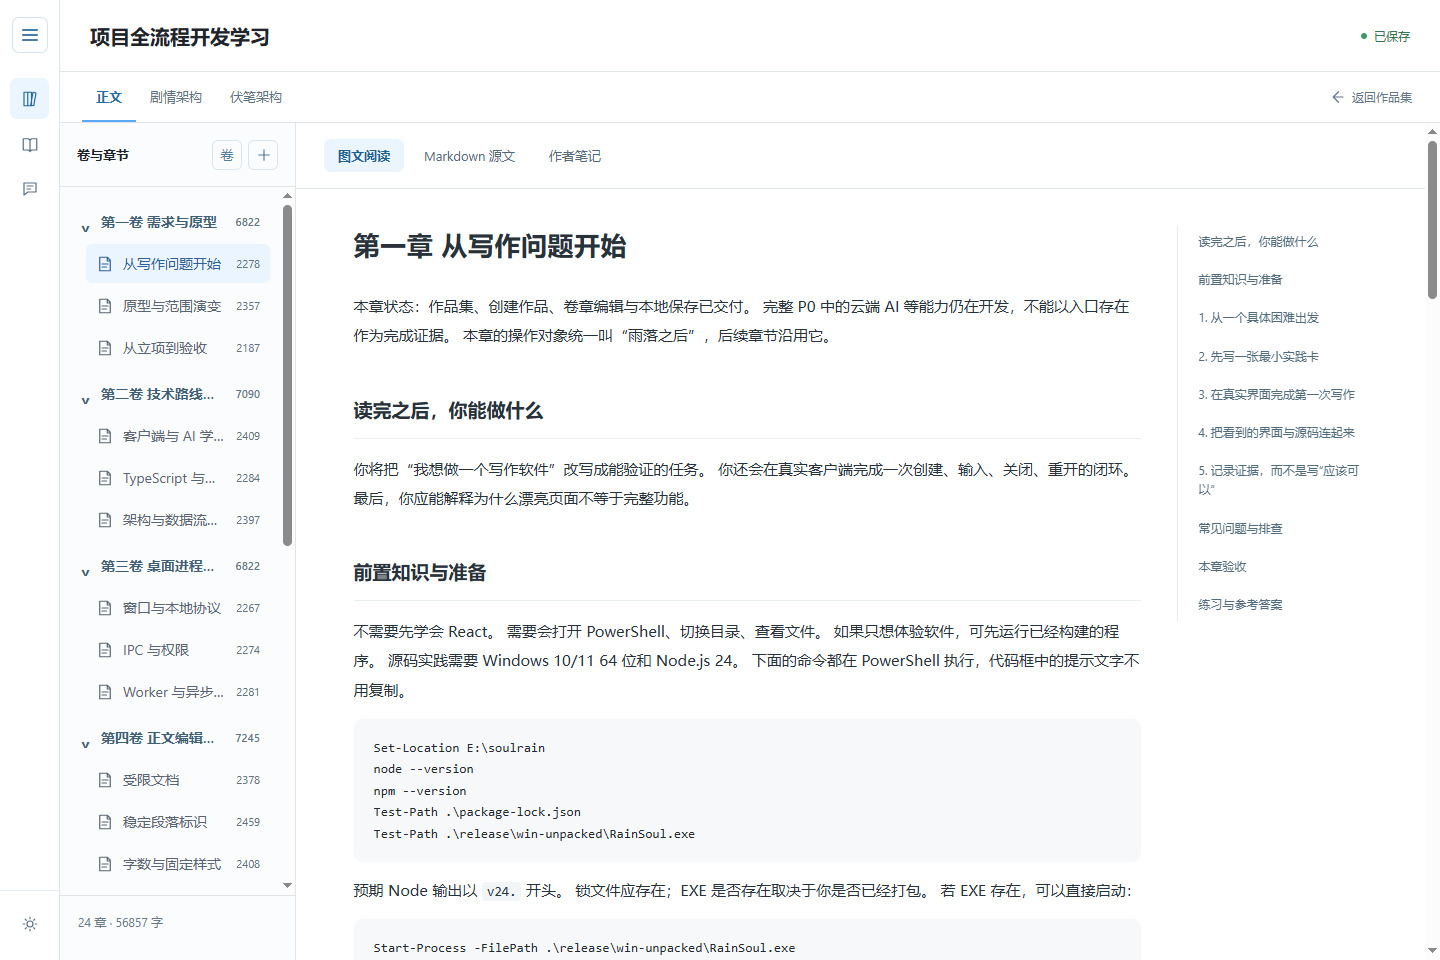
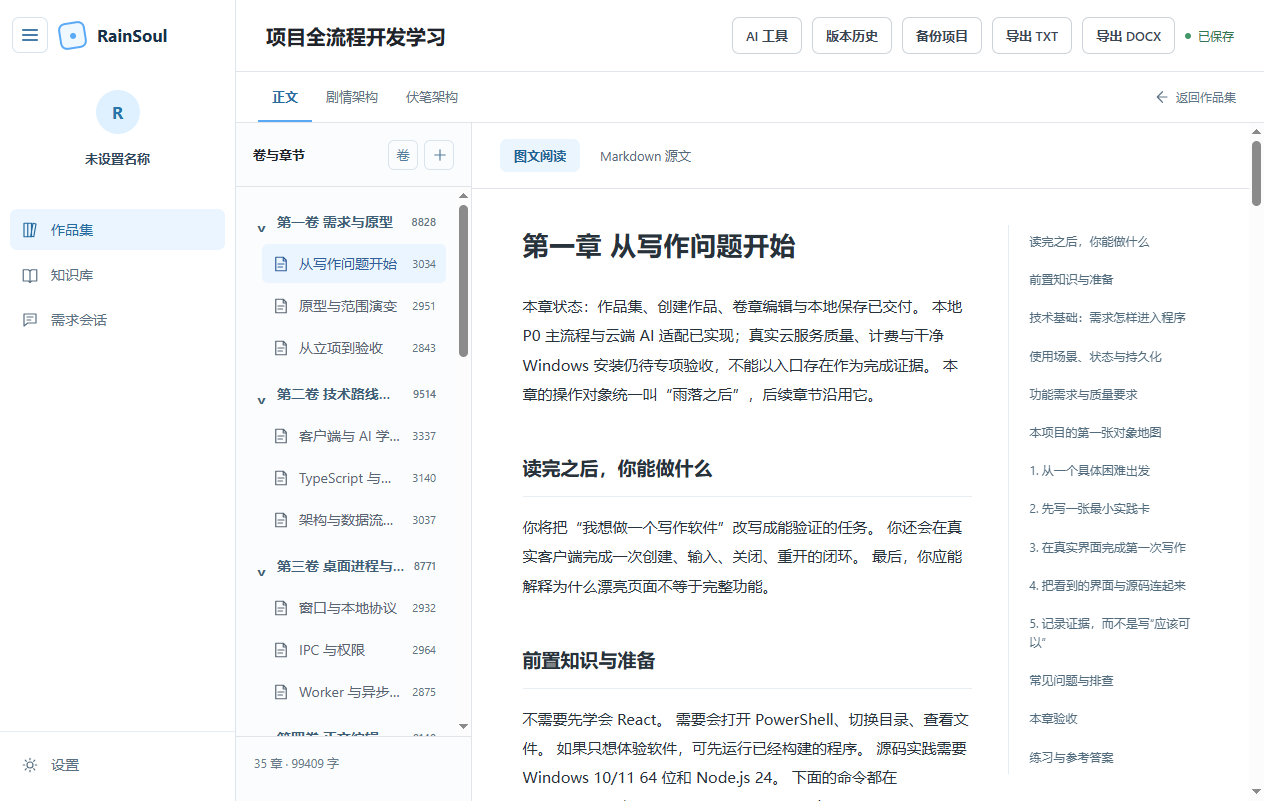
fix(learning-ui): 移除旧作者正文入口并保留已存数据
教材仅提供图文阅读与只读Markdown源文，普通作品仍使用原编辑器；旧作者数据不删除。单元和真实Electron重启保留回归通过，两张教材截图同步新界面。

diff --git a/tests/unit/learning-chapter.test.tsx b/tests/unit/learning-chapter.test.tsx
@@ -6,30 +6,24 @@ import type { Textbook } from '../../src/shared/textbook';
 
 afterEach(cleanup);
 const textbook: Textbook = { workId: 'course', chapters: [{ id: 'chapter', key: 'c1', title: '实验', markdown: '# 实验\n\n## 跟做\n\n```ts\nconst result = 1;\n```', images: {} }] };
-describe('教材模式与笔记隔离', () => {
-  it('默认阅读，源文只读，笔记必须通过保存门禁后显示，切回阅读不改笔记', async () => {
+describe('教材只显示图文与只读源文', () => {
+  it('隐藏旧作者正文入口，切换源文通过保存门禁且不改作者数据', async () => {
     const changeMode = vi.fn(async (action: () => void) => { action(); return true; });
     render(<LearningChapter textbook={textbook} workId="course" chapterId="chapter" busy={false} changeMode={changeMode}><div>原作者笔记</div></LearningChapter>);
     expect(screen.getByRole('heading', { name: '实验' })).toBeTruthy();
+    expect(screen.queryByRole('button', { name: '作者笔记' })).toBeNull();
     expect(screen.queryByText('原作者笔记')).toBeNull();
     fireEvent.click(screen.getByRole('button', { name: 'Markdown 源文' }));
     await waitFor(() => expect(screen.getByRole('textbox', { name: '教材 Markdown 源文' })).toHaveProperty('readOnly', true));
-    fireEvent.click(screen.getByRole('button', { name: '作者笔记' }));
-    await waitFor(() => expect(screen.getByText('原作者笔记')).toBeTruthy());
-    expect(screen.queryByRole('article')).toBeNull();
     fireEvent.click(screen.getByRole('button', { name: '图文阅读' }));
     await waitFor(() => expect(screen.getByRole('heading', { name: '实验' })).toBeTruthy());
-    expect(changeMode).toHaveBeenCalledTimes(3);
+    expect(changeMode).toHaveBeenCalledTimes(2);
   });
-  it('门禁失败不会离开笔记；同名普通作品也不被接管', async () => {
-    let allow = true;
-    const changeMode = async (action: () => void) => { if (allow) action(); return allow; };
+  it('门禁失败停留当前阅读方式，同名普通作品不被接管', async () => {
+    const changeMode = vi.fn(async () => false);
     const { rerender } = render(<LearningChapter textbook={textbook} workId="course" chapterId="chapter" busy={false} changeMode={changeMode}><div>保留草稿</div></LearningChapter>);
-    fireEvent.click(screen.getByRole('button', { name: '作者笔记' }));
-    await waitFor(() => expect(screen.getByText('保留草稿')).toBeTruthy());
-    allow = false;
-    fireEvent.click(screen.getByRole('button', { name: '图文阅读' }));
-    await waitFor(() => expect(screen.getByText('保留草稿')).toBeTruthy());
+    fireEvent.click(screen.getByRole('button', { name: 'Markdown 源文' }));
+    expect(screen.getByRole('article', { name: '教材正文' })).toBeTruthy();
     rerender(<LearningChapter textbook={textbook} workId="ordinary" chapterId="chapter" busy={false} changeMode={changeMode}><div>普通正文</div></LearningChapter>);
     expect(screen.getByText('普通正文')).toBeTruthy();
     expect(screen.queryByRole('button', { name: '图文阅读' })).toBeNull();

diff --git a/src/renderer/components/learning-chapter.tsx b/src/renderer/components/learning-chapter.tsx
@@ -2,16 +2,15 @@ import { useState, type ReactNode } from 'react';
 import type { Textbook } from '../../shared/textbook';
 import { TextbookReader } from './textbook-reader';
 export function LearningChapter(props: { textbook?: Textbook; workId: string; chapterId: string; busy: boolean; changeMode: (action: () => void) => Promise<boolean>; children: ReactNode }) {
-  const [mode, setMode] = useState<'read' | 'source' | 'notes'>('read');
+  const [mode, setMode] = useState<'read' | 'source'>('read');
   const chapter = props.textbook?.workId === props.workId ? props.textbook.chapters.find((item) => item.id === props.chapterId) : undefined;
   if (!chapter) return <>{props.children}</>;
-  const modes = [{ value: 'read', label: '图文阅读' }, { value: 'source', label: 'Markdown 源文' }, { value: 'notes', label: '作者笔记' }] as const;
+  const modes = [{ value: 'read', label: '图文阅读' }, { value: 'source', label: 'Markdown 源文' }] as const;
   return <>
     <div className="learning-toolbar" role="group" aria-label="教材阅读方式">
       {modes.map((item) => <button key={item.value} aria-pressed={mode === item.value} disabled={props.busy} onClick={() => { void props.changeMode(() => setMode(item.value)); }}>{item.label}</button>)}
     </div>
     {mode === 'read' && <TextbookReader chapter={chapter} />}
     {mode === 'source' && <textarea className="textbook-source" aria-label="教材 Markdown 源文" value={chapter.markdown} readOnly spellCheck={false} />}
-    {mode === 'notes' && <><p className="learning-note-hint">笔记独立保存，教材更新时保留你的内容。</p>{props.children}</>}
   </>;
 }
